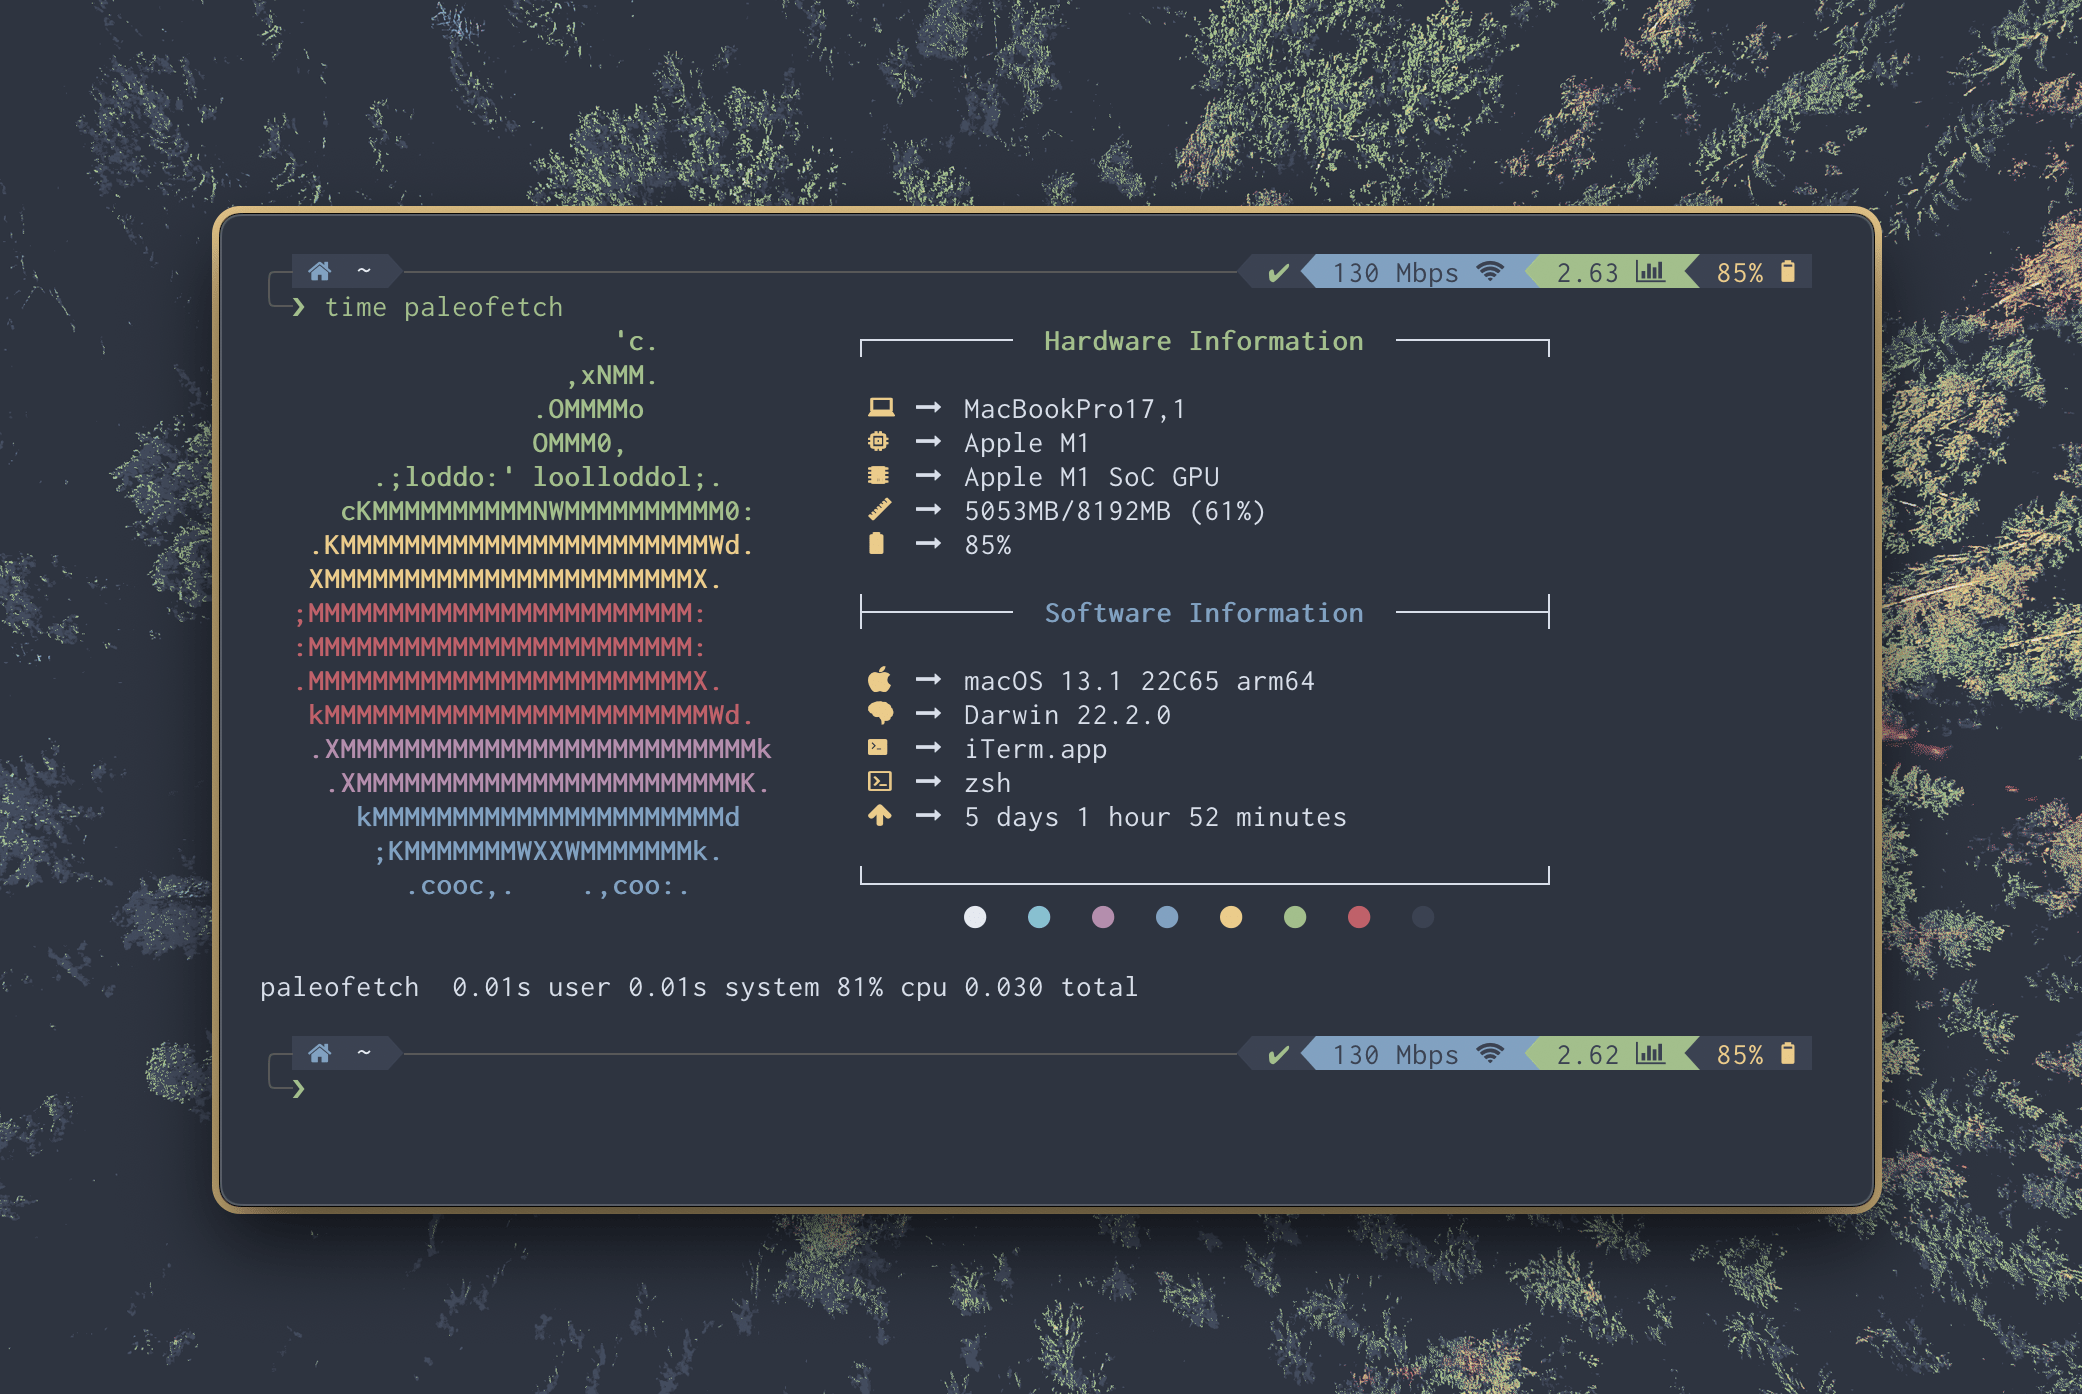
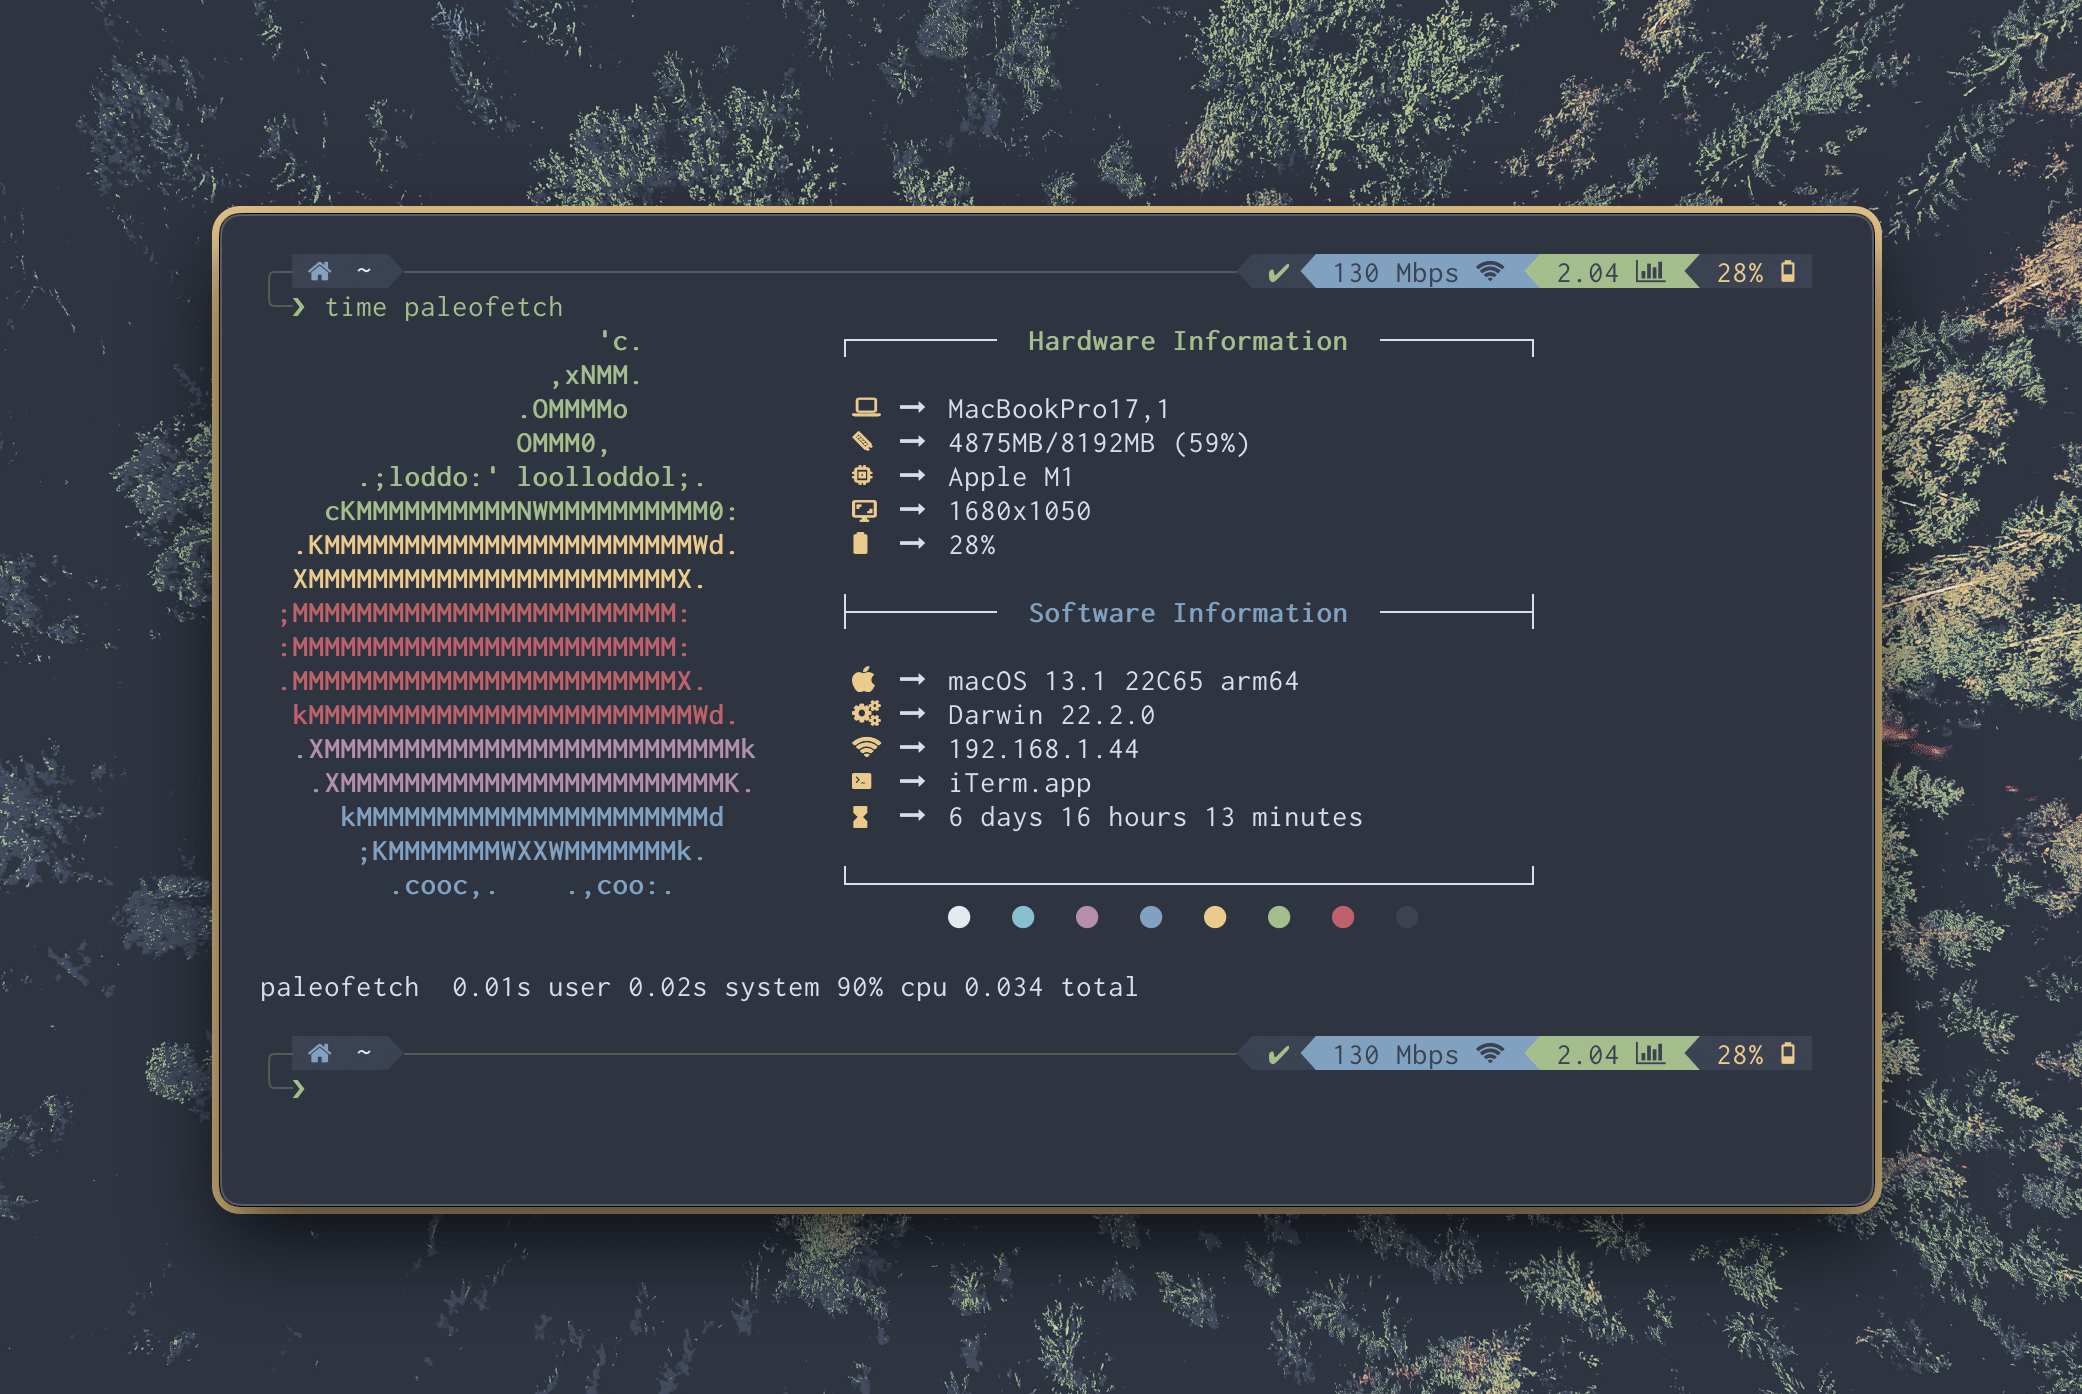
adding ip and making some changes

diff --git a/src/config.h b/src/config.h
@@ -4,18 +4,18 @@
 	{ "",             print_hardware,              false  }, \
 	SPACER \
     { " \033[33m\033[0m    ",     get_machine,              true  }, \
+	{ " \033[33mﳔ\033[0m    ",     get_ram_usage,		      false }, \
 	{ " \033[33m\033[0m    ",     get_cpu,                  true  }, \
-	{ " \033[33m﬙\033[0m    ",     get_gpu,                  true  }, \
-	{ " \033[33m\033[0m    ",     get_ram_usage,		     false }, \
+	{ " \033[33m\033[0m    ",     get_resolution,           true  }, \
     { " \033[33m\033[0m    ",     get_battery_procentage,   false }, \
 	SPACER \
-	{ "",             print_software,              false  }, \
+	{ "",             print_software,                         false  }, \
 	SPACER \
 	{ " \033[33m\033[0m    ",	    get_complete_os,          true  }, \
 	{ " \033[33m\033[0m    ",     get_kernel,               true  }, \
-	{ " \033[33m\033[0m    ",     get_terminal,             false }, \
-	{ " \033[33m\033[0m    ",     get_shell,                true  }, \
-	{ " \033[33m\033[0m    ",     get_uptime,               false }, \
+    { " \033[33m\033[0m    ",     get_ip,                   false }, \
+	{ " \033[33m\033[0m    ",     get_terminal,             false }, \
+	{ " \033[33m\033[0m    ",     get_uptime,               false }, \
 	SPACER \
 	{ "",             print_end_info,               false  }, \
 	{ "",             get_colors_dots,              false  }, \
@@ -28,5 +28,5 @@
     { "",             get_user_and_host,        true  },\
     { "",             hostname_underline,       true  }, \
     */\
-	/* { "Resolution: ", get_resolution,           true  }, */\
+	/* { " \033[33m﬙\033[0m    ",     get_gpu,                  true  }, \ */\
 

diff --git a/src/macintosh.c b/src/macintosh.c
@@ -28,7 +28,7 @@ static void execute_command(char const *const cmd, char *const ref)
         while((c = fgetc(stdout_file)) != '\n' && i < 254){
             ref[i] = c;
             i++;
-        }   
+        }
         ref[i] = '\0';
         pclose(stdout_file);
     }
@@ -85,7 +85,7 @@ void get_complete_os(char *os)
         char const cmd_name[]  = "sw_vers -productName";
 
         char build[256];
-        char name[256];   
+        char name[256];
         execute_command(cmd_build, build);
         execute_command(cmd_name, name);
         char *version = get_sysctlbyname_info_str(OS_VERS);
@@ -126,7 +126,7 @@ void get_gpu(char *gpu)
 {
     char *gpu_name;
     CFMutableDictionaryRef matchDict = IOServiceMatching("IOPCIDevice");
-        
+
     io_iterator_t iterator;
     if (IOServiceGetMatchingServices(
 #ifdef __MAC_OS_X_VERSION_MAX_ALLOWED
@@ -163,6 +163,16 @@ void get_gpu(char *gpu)
         }
         IOObjectRelease(iterator);
 
-    } 
+    }
 }
 #endif
+
+void get_ip(char *local_ip)
+{
+    const char cmd[] = "ifconfig en0 | grep inet | awk '$1==\"inet\" {print $2}'";
+    char ip[256];
+    execute_command(cmd, ip);
+
+    strlcpy(local_ip, ip, BUFF_256);
+}
+

diff --git a/src/macintosh.h b/src/macintosh.h
@@ -1,5 +1,5 @@
 //
-//  macintosh.h 
+//  macintosh.h
 //  paleofetch-mac
 //
 //  Created by DesantBucie on 16/09/2021.
@@ -15,7 +15,8 @@ void        get_ram_usage(char *),
             get_complete_os(char *),
             get_resolution(char *),
             get_gpu(char *),
-            get_battery_procentage(char *);
+            get_battery_procentage(char *),
+            get_ip(char *local_ip);
 
 uint64_t    get_mem_from_vm_stat();
 
@@ -34,7 +35,7 @@ uint64_t    get_mem_from_vm_stat();
 #elif \
     defined(__x86_64) || defined(__x86_64__) || \
     defined(__amd64__) || defined(__amd64) || \
-    defined(_M_X64) 
+    defined(_M_X64)
 #define _is_x86_64_
 #elif \
     defined(i386) || defined(__i386__) \
@@ -44,8 +45,9 @@ uint64_t    get_mem_from_vm_stat();
     defined(__THW_INTEL__) || defined(__I86__) \
     defined(__INTEL__)
 #define _is_x86
-#else 
+#else
 #define _is_ppc_
-#endif  
+#endif
 
 #endif //MACINTOSH_H
+

diff --git a/src/paleofetch.c b/src/paleofetch.c
@@ -73,6 +73,7 @@ void get_colors2(char *colors2) {
     }
     strlcat(s,"\033[0m", 5);
 }
+
 void get_uptime(char *ret_string)
 {
     struct timeval boottime;

diff --git a/README.md b/README.md
@@ -35,6 +35,13 @@ git clone https://github.com/Jac-Zac/paleofetch-mac-prettier.git && cd paleofetc
 make install
 ```
 
+3. Run it for the first time to create the cache
+```bash
+paleofetch
+```
+
+_Now you should be able to use it without problems_
+
 #### Recaching
 
 Paleofetch uses caching to run faster. To recache data run `paleofetch -r`
